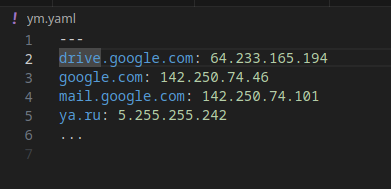
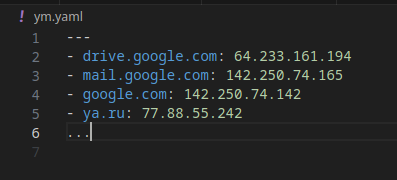
fix save_data func

diff --git a/sysadmin/hw12/README.md b/sysadmin/hw12/README.md
@@ -67,6 +67,15 @@ hosts = {
     'ya.ru': '' # добавил для наглядности, так как у гугловых адресов gethostbyname_ex возвращает 1 ip
     }
 
+def save_data():
+    with open('js.json', 'w') as js:
+        json.dump(hosts, fp = js, indent = 2,)
+    list_hosts = [{k: v} for k, v in hosts.items()]
+    with open('ym.yaml', 'w') as ym:
+        yaml.dump(list_hosts, ym, explicit_start=True, explicit_end=True, indent=2)
+
+save_data()
+
 while True:
     for k, v in hosts.items():
         ip = socket.gethostbyname(k)
@@ -75,7 +84,8 @@ while True:
             hosts[k] = ip
         else:
             print(f'{k} {ip}')
-        sleep(1)
+        sleep(0.1)
+    save_data()
 ```
 
 ### Вывод скрипта при запуске во время тестирования:
